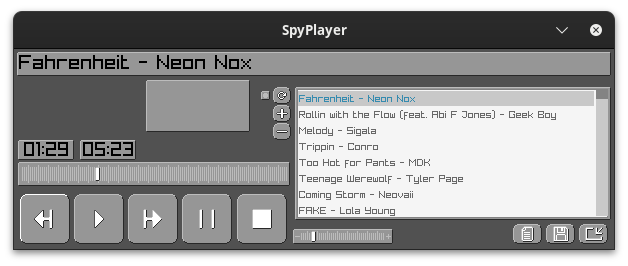
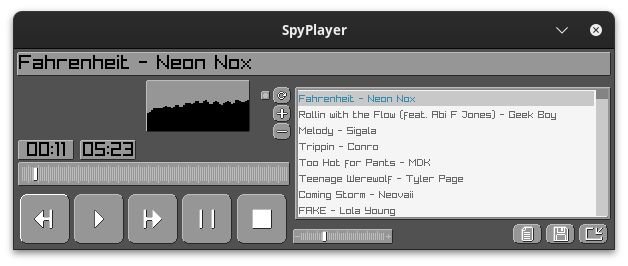
Impliments FFT visualizer

diff --git a/README.md b/README.md
@@ -18,11 +18,9 @@ This is a work in progress, and is not yet feature complete.
 - [x] Current time and total time
 - [x] Play next song when finished playing current song
 - [x] Seeking
-- [ ] Visualizer
-  - [x] Volume
-    - [ ] Fix channels being mixed?
-  - [ ] Spectrum
-    - [ ] FFT
+- [x] Visualizer
+  - [x] Spectrum
+    - [x] FFT
 - [ ] Playlist management
   - [x] Load from folder
   - [x] Playlist showing loaded songs
